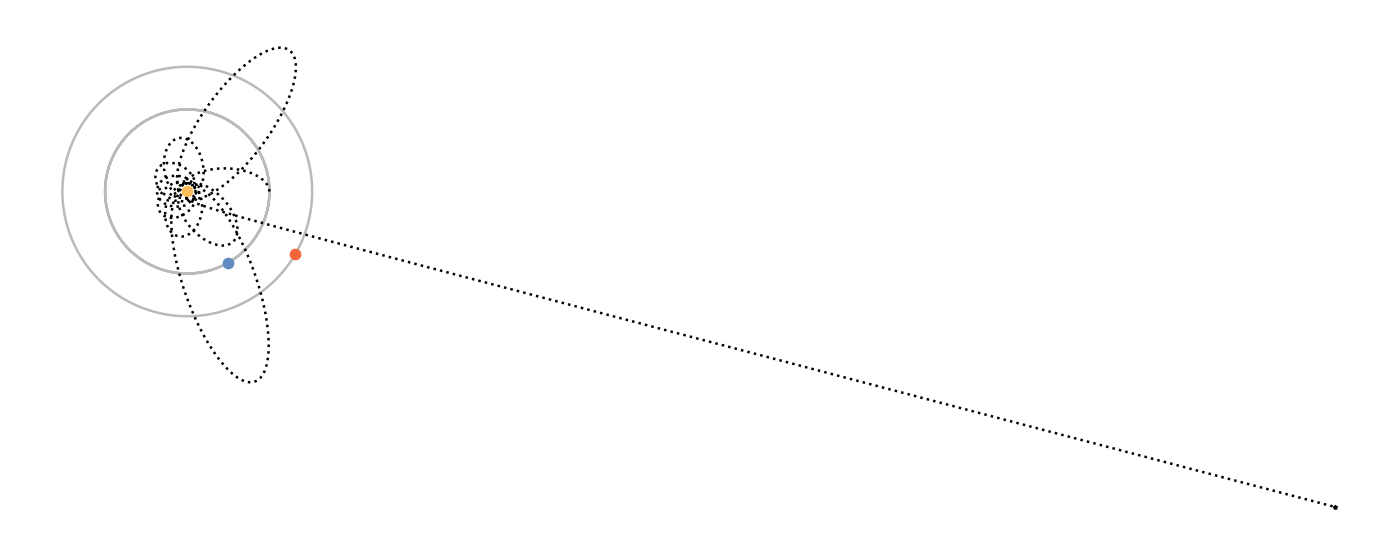
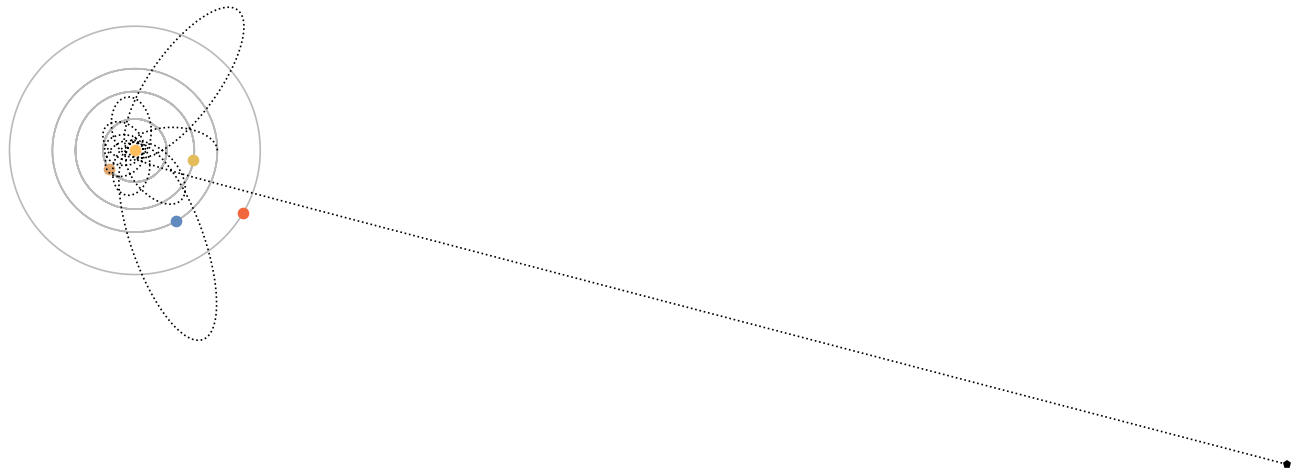
.

diff --git a/Skyhook/run.py b/Skyhook/run.py
@@ -90,7 +90,7 @@ saturn = Planet(M_7, UT_7, D_7, R_7)
 uranus = Planet(M_8, UT_8, D_8, R_8)
 neptun = Planet(M_9, UT_9, D_9, R_9)
 # Planetenliste (ohne Sonne)
-planets = [earth,mars]
+planets = [merkur, venus, earth,mars]
 
 class Rakete:
     def __init__(self):
@@ -181,23 +181,23 @@ def marker_scale(R):
 plt.plot(0,0, "o", color="#ffbd5b") #marker_scale(R_SUN)
 # Planetenbahnen
 for planet in planets:
-    plt.plot(planet.X, planet.Y, color="#bababa") # Bahn
+    plt.plot(planet.X, planet.Y, color="#bababa", lw=1) # Bahn
 # Planetenbewegungen
-#merkur_plot, = ax.plot(merkur.X[0], merkur.Y[0], "o", color="#e2a973")
-#venus_plot, = ax.plot(venus.X[0], venus.Y[0], "o", color="#e5bc5b")
+merkur_plot, = ax.plot(merkur.X[0], merkur.Y[0], "o", color="#e2a973")
+venus_plot, = ax.plot(venus.X[0], venus.Y[0], "o", color="#e5bc5b")
 earth_plot, = ax.plot(earth.X[0], earth.Y[0], "o", color="#618abf")#marker_scale(R_EARTH)
 mars_plot, = ax.plot(mars.X[0], mars.Y[0], "o", color="#f2663c") #marker_scale(R_MARS)
 
 # Raketen
-rocket_line = plt.plot(rocket.X, rocket.Y, ":")
-rocket_plot, = ax.plot(rocket.X[0], rocket.Y[0], "p", color=(0,0,0,1), markersize=2)
+rocket_line = plt.plot(rocket.X, rocket.Y, ":", lw=1)
+rocket_plot, = ax.plot(rocket.X[0], rocket.Y[0], "p", color=(0,0,0,1), markersize=4)
 
 #-----------------------------------------------------------------------------
 # Animiere die Planeten
 def animate(i):
     # Datenupdate
-    #merkur_plot.set_data(merkur.X[i], merkur.Y[i])
-    #venus_plot.set_data(venus.X[i], venus.Y[i])
+    merkur_plot.set_data(merkur.X[i], merkur.Y[i])
+    venus_plot.set_data(venus.X[i], venus.Y[i])
     earth_plot.set_data(earth.X[i], earth.Y[i])
     mars_plot.set_data(mars.X[i], mars.Y[i])
     #rocket_line.set_data(rocket.X[:i], rocket.Y[:i])
